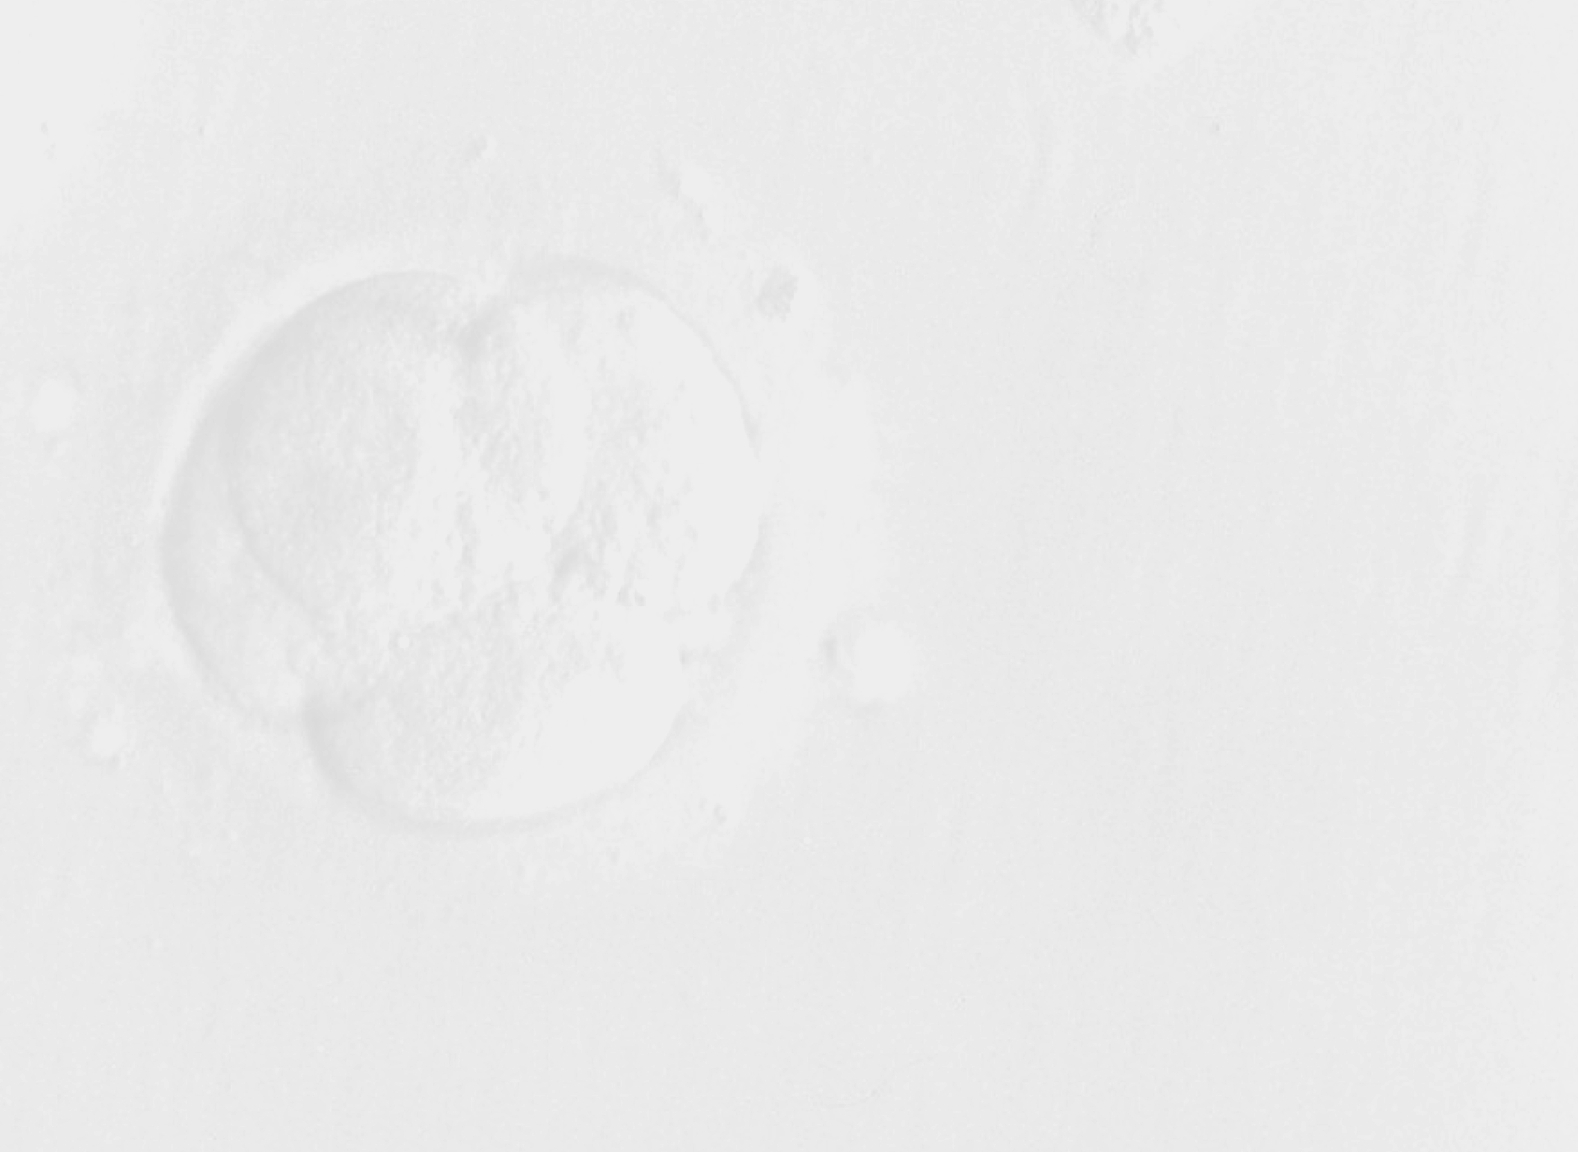
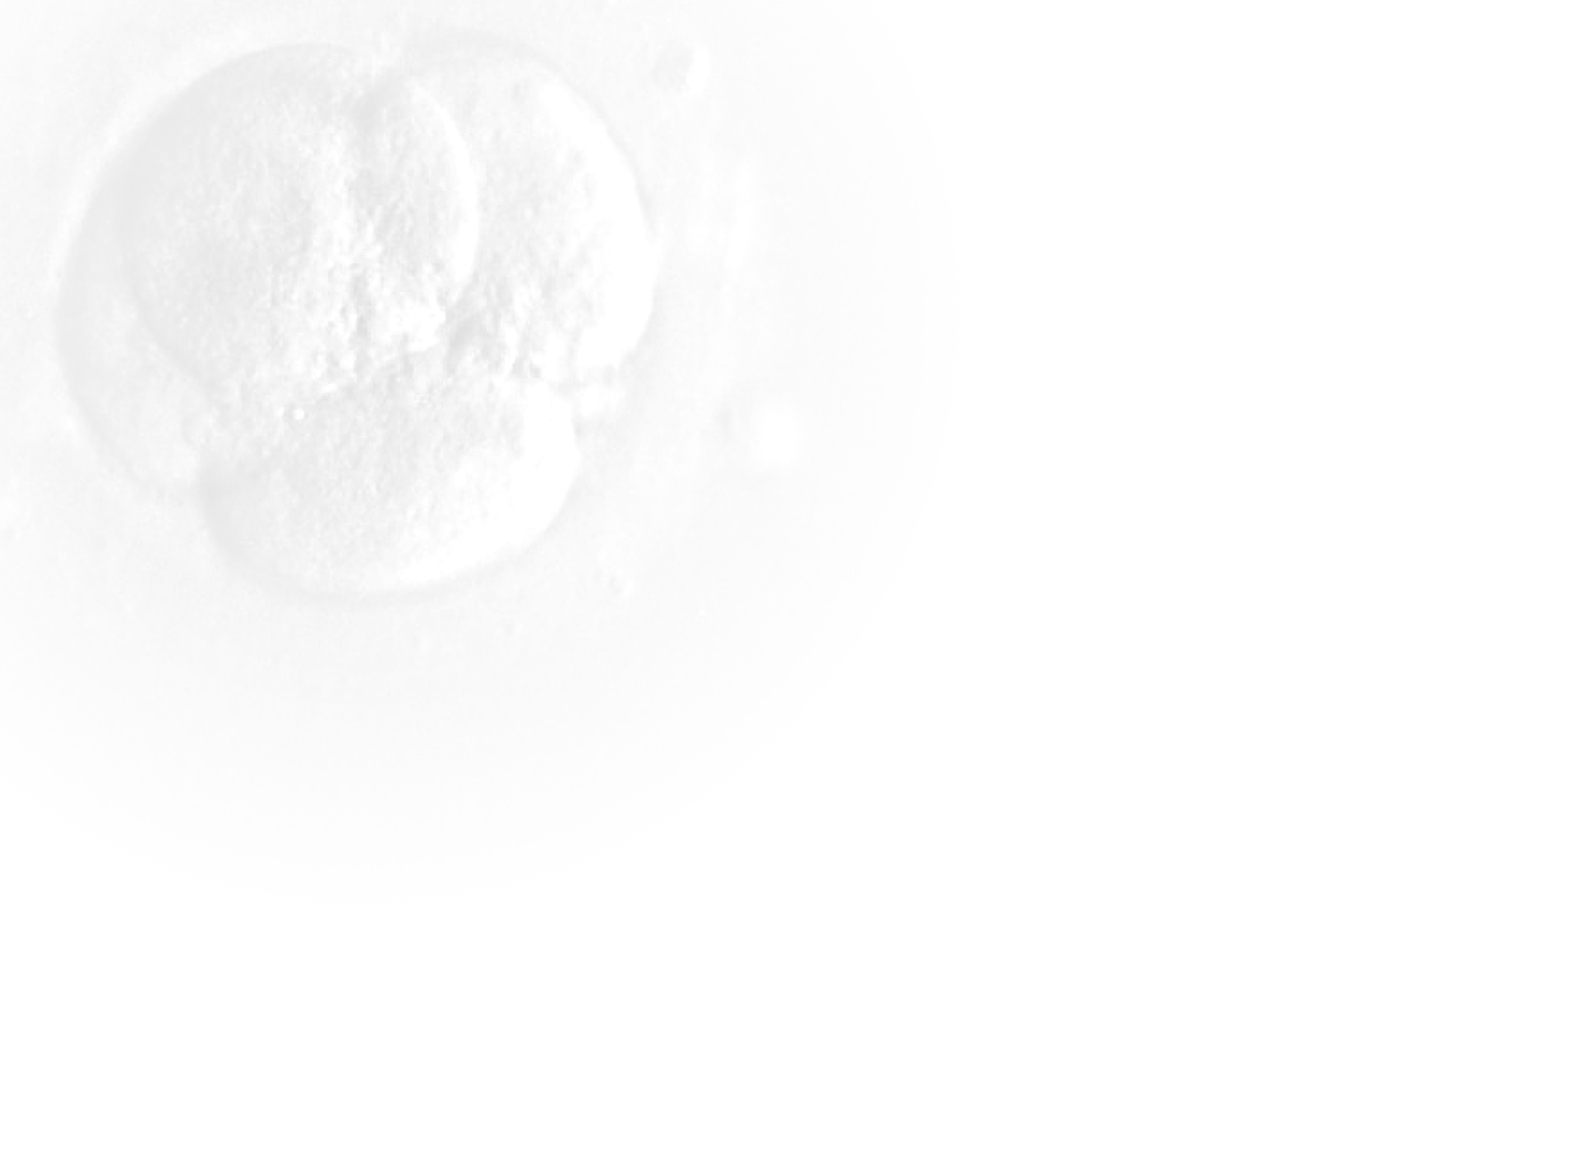
font and embryo

diff --git a/client/html/index.html b/client/html/index.html
@@ -2,6 +2,7 @@
 <html lang="en" dir="ltr">
   <head>
     <meta charset="utf-8">
+    <meta name="pinterest" content="nopin" />
     <meta name="viewport" content="width=device-width, initial-scale=1">
     <meta name="description" content="">
     <meta name="generator" content="Hugo 0.79.0">
@@ -22,7 +23,7 @@
     <main>
       <div class="container-fluid full-width">
 
-        <div class="section row" id="first">
+        <div class="section row embryo picture" id="first">
           <div class="col-6 pad">
             <h1>HELP US HAVE A BABY</h1>
             <h2>Buying our art will help us fund our IVF costs</h2>
@@ -46,10 +47,9 @@
         <div class="section squeeze">
           <div class="row">
             <div class="col-12" id="instructions">
-              <h1>First, select a picture.</h1>
+              <h1>Select a picture:</h1>
             </div>
           </div>
-          <br/>
           <br/>
           <div class="row" id="pictures"></div>
           <div class="row" style="margin-top:10px;padding-top:calc(var(--bs-gutter-x)/ 2)" id="noPic"></div>
@@ -60,13 +60,13 @@
 
         <div class="section row center" style="display:none;" id="donationDiv">
           <div class="col-10 white" style="">
-            <h2>Enter your donation amount:</h2>
+            <h1>Name your price:</h1>
           </div>
           <div class="col-10 center white" style="padding-bottom:40px;">
-            <div class="input-group input-group-lg">
-              <span class="input-group-text" style="color:#555">DONATION</span>
+            <div class="input-group">
+              <span class="input-group-text" style="color:#555">Donation:</span>
               <input type="text" placeholder="$" aria-label="Donate" class="form-control" style="height:auto;" id="donation" maxlength="7">
-              <button class="btn btn-outline-secondary not-ready" type="button" title="Not ready" id="submit">Buy</button>
+              <button class="btn btn-outline-secondary not-ready" type="button" title="Not ready" id="submit">BUY</button>
             </div>
             <p style="color:#f00;" id="error-message"></p>
           </div>

diff --git a/client/html/index.js b/client/html/index.js
@@ -16,8 +16,6 @@ fetch('/config')
     populate();
   });
 
-$("donation").blur(()=>console.log("asdf"));
-
 $(document).ready(function() {
   let donValue = $("#donation");
    donValue.focusout(()=>{
@@ -109,17 +107,18 @@ function selected(e,index){
   checkStatus();
 }
 
-function donationOnly(){
-  console.log("donationOnly");
+function donationOnly() {
+  $(".product-card").css({"background-color":"#ddd","border":"none"});
+  $(".product-card h1").css("color","#2e95ff");
   productId = (productId == 3) ? null : 3;
   if(productId == 3) {
     $("#pictures").removeClass("showPics");
     setTimeout(()=>{
       $("#pictures").addClass("noPics");
-    },10)
+    },10);
     setTimeout(()=>{
       $("#pictures").hide();
-    },1000)
+    },1000);
 
     $("#checked").show();
     $("#check").hide();
@@ -158,7 +157,7 @@ function populate(){
     </div>`;
     $("#pictures").append(picture);
   }
-  var noPic = `<div class="col-sm-12">
+  var noPic = `<div class="col-lg-4 col-md-6">
     <div class="donation-only" onclick="donationOnly()" id="product_3">
       <h2><img src="./images/check.png" id="check"><img src="./images/checked.png" style="display:none" id="checked">  Donation Only</h2>
     </div>
@@ -173,7 +172,9 @@ function checkStatus(submitClicked){
   console.log(amountReady + " : " + productReady);
 
   if(productReady && !showAmount){
-    nextStep();
+    $("#donation").val("");
+    let time = (productId == 3) ? 1000 : 10;
+    setTimeout(()=> nextStep(), time)
     showAmount = true;
   }
 
@@ -201,5 +202,7 @@ function checkStatus(submitClicked){
 function nextStep() {
   $("#donationDiv").addClass("fadeIn");
   $("#donationDiv").show();
+  $("#donationDiv h2").addClass("pulse");
+
   window.scrollTo(0,document.body.scrollHeight);
 }

diff --git a/client/html/css/style.css b/client/html/css/style.css
@@ -84,7 +84,7 @@ body{
 .picture {
   background-position: center;
   background-repeat: no-repeat;
-  background-size: cover;
+  background-size: contain;
 }
 
 .path {
@@ -93,6 +93,7 @@ body{
 
 .embryo {
   background-image: url('../images/embryo.jpg');
+  background-position: left top;
 }
 
 .us {
@@ -197,13 +198,25 @@ background: radial-gradient(circle, rgba(239,243,255,1) 0%, rgba(211,222,246,1) 
 @keyframes example {
   0% {height: 500px;}
   60% {height: 0px;opacity:0;}
-  100% {height: 0px;;opacity:0;}
+  100% {height: 0px;opacity:0;}
 }
 
 @keyframes fade {
   0% {opacity:0;}
   60% {opacity:1;}
   100% {opacity:1;}
+}
+
+@keyframes pulse {
+  0% {color:#0f0;}
+  /* 40% {color:#555;}
+  45% {color:#0f0;} */
+  /* 10% {color:#555;} */
+  21% {color:#cfc;}
+  /* 51% {color:#555;} */
+  /* 90% {color:#0f0;} */
+  90% {color:#000;}
+  100% {color:#2d2d2db3;}
 }
 
 .noPics {
@@ -221,6 +234,16 @@ background: radial-gradient(circle, rgba(239,243,255,1) 0%, rgba(211,222,246,1) 
 .fadeIn {
   animation-name: fade;
   animation-duration: 4s;
+}
+
+.pulse {
+  animation-name: pulse;
+  /* animation-delay: 1s; */
+  animation-duration: 4s;
+  /* animation-timing-function:ease-in-out; */
+  /* animation-iteration-count: 5; */
+  /* animation-iteration-count: 3; */
+
 }
 
 .desktop {

diff --git a/client/html/css/global.css b/client/html/css/global.css
@@ -41,7 +41,7 @@ h1 {
 h4 {
   font-weight: 500;
   font-size: 14px;
-  color: var(--gray-light);
+  /* color: var(--gray-light); */
 }
 
 /* Layout */
